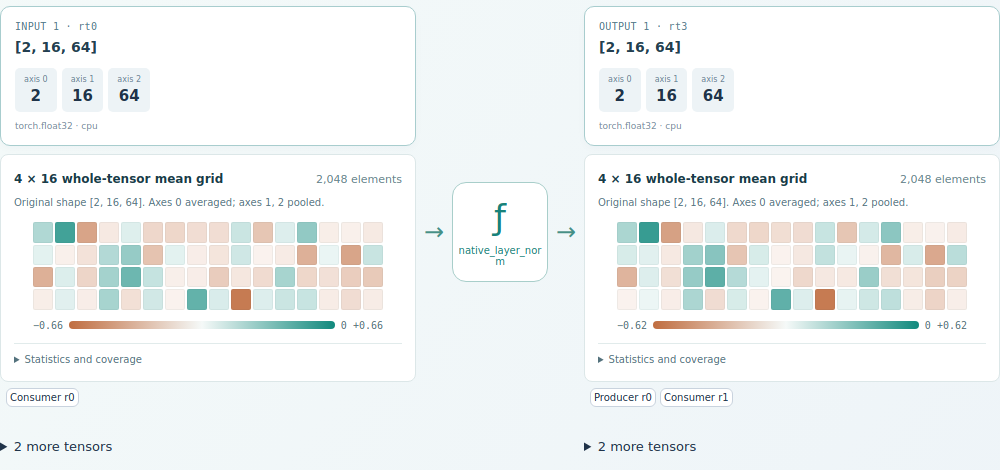
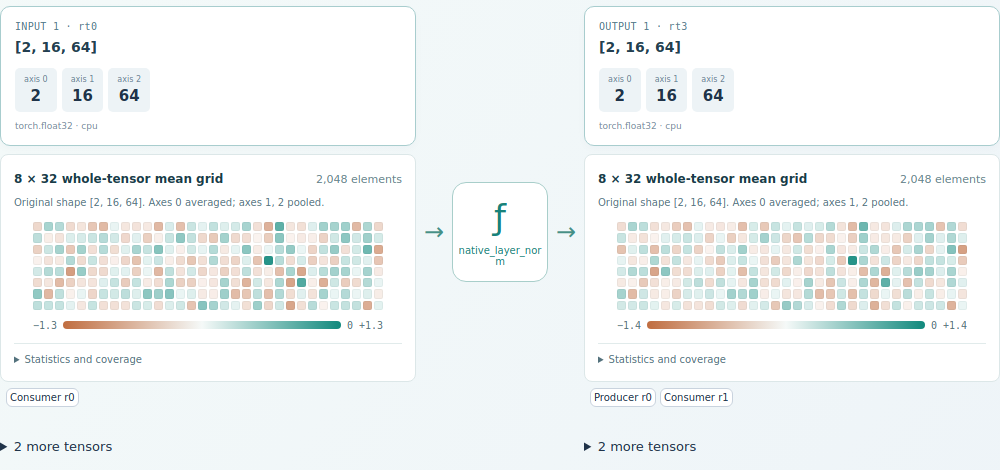
Render every cell for tensors up to 32 by 32

diff --git a/src/p2i/analyze/inspection.py b/src/p2i/analyze/inspection.py
@@ -4,7 +4,7 @@ import torch
 
 class RuntimeInspection:
     def __init__(self,*,max_tensors=64,max_elements=4096,sample_size=0,max_operations=256,
-                 max_summary_elements=262144,grid_size=16):
+                 max_summary_elements=262144,grid_size=32):
         if not (0<=max_tensors<=256 and 0<=max_elements<=16384 and 0<=sample_size<=64 and
                 0<=max_operations<=1024 and 0<=max_summary_elements<=1048576 and 1<=grid_size<=32):
             raise ValueError('Inspection limits exceed hard safety caps')
@@ -47,8 +47,8 @@ class RuntimeInspection:
                 else:
                     filled=filled.reshape(plane.shape[-2:])
                     coverage=valid.float().reshape(plane.shape[-2:])
-                # Downsample both axes by the same factor. A 32x16 plane
-                # becomes 16x8 rather than an apparently square 16x16 grid.
+                # Preserve every position while the final two axes fit in the
+                # grid. Only larger planes need bounded regional means.
                 scale=max(1,filled.shape[0]/self.grid_size,filled.shape[1]/self.grid_size)
                 height=max(1,min(self.grid_size,round(filled.shape[0]/scale)))
                 width=max(1,min(self.grid_size,round(filled.shape[1]/scale)))
@@ -67,7 +67,7 @@ class RuntimeInspection:
                     'reduced_axes':list(range(max(0,value.ndim-2))),
                     'finite_elements':int(finite.sum().item()),
                 }
-                entry['message']='Whole-tensor mean grid; raw tensor values were not retained.'
+                entry['message']='Bounded whole-tensor grid; original activation tensor was not retained.'
         except Exception as exc:entry['message']=f'Grid unavailable: {type(exc).__name__}'
     def operation(self,oid,func,args,kwargs):
         if len(self.operations)>=self.max_operations:return

diff --git a/tests/unit/test_tensor_grid.py b/tests/unit/test_tensor_grid.py
@@ -34,14 +34,16 @@ def test_leading_axes_are_explicitly_averaged_and_odd_sized_tiles_cover_every_el
 
 
 def test_rectangular_source_preserves_axis_ratio_in_bounded_grid():
-    square = inspect(torch.ones(32, 32))['grid']
+    square = inspect(torch.arange(32 * 32, dtype=torch.float32).reshape(32, 32))['grid']
     tall = inspect(torch.arange(32, dtype=torch.float32)[:, None].expand(32, 16))['grid']
     wide = inspect(torch.ones(16, 32))['grid']
-    assert square['shape'] == [16, 16]
-    assert tall['shape'] == [16, 8]
-    assert wide['shape'] == [8, 16]
-    assert tall['values'][0] == [0.5] * 8
-    assert tall['values'][-1] == [30.5] * 8
+    assert square['shape'] == [32, 32]
+    assert square['values'][0][0] == 0.0
+    assert square['values'][-1][-1] == 1023.0
+    assert tall['shape'] == [32, 16]
+    assert wide['shape'] == [16, 32]
+    assert tall['values'][0] == [0.0] * 16
+    assert tall['values'][-1] == [31.0] * 16
     assert tall['finite_elements'] == 32 * 16
 
 

diff --git a/docs/COMPUTATION_EXPLORER.md b/docs/COMPUTATION_EXPLORER.md
@@ -29,9 +29,9 @@ Parameter counts/configuration are labelled metadata, not fabricated graph nodes
 
 Default neighborhoods contain one operation and up to six directly connected operations. All operations remain in the selector. Raw view starts at 120 nodes and can intentionally expand to 500. Topological layers do not depend on source listing order; separate edge ports reveal fan-out/fan-in. This is a simple DAG layout, not crossing-minimal layout. Drag offsets persist for the current observation in this browser session. Retracing produces a new observation and resets offsets. Fit keeps scale at least 80%; oversized scopes require panning, not illegible shrinking.
 
-Scalars use one cell, vectors a strip and matrices a bounded rectangular heatmap. For rank three and above, leading axes are explicitly averaged; the final two axes are spatially pooled. Both displayed axes share one downsampling factor: a 32×32 plane makes a 16×16 grid, whereas 32×16 makes a 16×8 grid. The card retains its available width; cells adjust their width, and short/wide grids may occupy less height. Each cell is the arithmetic mean of all finite elements in its contributing region. Colour ranges are based on the largest absolute grid mean, with a centred zero legend; cells with no finite data are marked unavailable. No semantic axis names are inferred.
+Scalars use one cell, vectors a strip and matrices a bounded rectangular heatmap. For rank three and above, leading axes are explicitly averaged; the final two axes are spatially pooled. The default grid preserves every position when both final axes fit within 32: a 32×32 plane renders 32×32 cells, and 32×16 renders 32×16 cells in the same outer footprint, so each cell is smaller than in a 16×16 plane. Only axes exceeding 32 use a common downsampling factor and regional means. The card retains its available width; cells adjust their width, and short/wide grids may occupy less height. Each cell represents the mean of its contributing finite elements. Colour ranges are based on the largest absolute grid mean, with a centred zero legend; cells with no finite data are marked unavailable. No semantic axis names are inferred.
 
-The optional CPU sidecar stores at most a 16×16 mean grid per tensor and whole-tensor finite-value statistics; it stores no raw activation values by default. Normal capture is limited to the first 64 observed tensors and 262,144 elements per tensor. Unsupported devices/layouts, empty tensors and tensors above the size threshold show shape and a clear omission message. Earlier sidecars containing explicit prefixes still render as labelled legacy strips. The observed Model IR and its JSON schema remain unchanged. This is a compact whole-tensor summary, not a full activation store or a guarantee that every tensor in a model has a heatmap.
+The optional CPU sidecar stores at most a 32×32 grid per tensor and whole-tensor finite-value statistics; it stores no full activation tensor in the Model IR. Normal capture is limited to the first 64 observed tensors and 262,144 elements per tensor. Unsupported devices/layouts, empty tensors and tensors above the size threshold show shape and a clear omission message. Earlier sidecars containing explicit prefixes still render as labelled legacy strips. The observed Model IR and its JSON schema remain unchanged. A 32×32 input retains all 1,024 individual finite cell values in the opt-in inspection sidecar; above the 32-axis limit only regional means are retained. This is not a guarantee that every tensor in a model has a heatmap.
 
 ## Comparing observations
 

diff --git a/docs/PHASE2.md b/docs/PHASE2.md
@@ -195,7 +195,7 @@ The original hierarchy and raw computation modes remain available. New default *
 
 **Edit** displays supported constructor fields with type-appropriate controls, current/proposed values, a structured diff and validation result. Advanced JSON supports all actions and coordinated batches. Commit is enabled only after a successful preview; changing the proposal invalidates the preview. The live architecture and observed revisions are visibly distinct until Build & Re-trace succeeds. History exposes structured diffs, undo/redo, runtime comparisons and weight-transfer reports. All views share the selected module scope.
 
-Optional bounded CPU samples can be enabled for Build & Re-trace. They are stored in a separate in-memory sidecar, not saved ModelIR. Defaults: at most 64 tensors, 4,096 elements per tensor for sampling/statistics, 16 displayed values per tensor, and 256 operations' compact scalar arguments. Hard caps prevent increasing these without limit. Large/device/layout-incompatible tensors are omitted with a reason. Inspection arithmetic is excluded from the model operation trace. Without opt-in, the original metadata-only behavior remains.
+Optional bounded CPU heatmaps can be enabled for Build & Re-trace. They are stored in a separate in-memory sidecar, not saved ModelIR. Defaults: at most 64 tensors, 262,144 elements per tensor, a 32×32 grid per tensor, and 256 operations' compact scalar arguments. Within the grid bounds each 2D element has its own cell; larger axes are pooled into regional means. The original activation tensor is not retained, though small grid cells contain individual numerical values. Hard caps prevent increasing these without limit. Large/device/layout-incompatible tensors are omitted with a reason. Inspection arithmetic is excluded from the model operation trace. Without opt-in, the original metadata-only behavior remains.
 
 Python can use `RuntimeInspection` from `p2i.analyze.inspection` with `p2i.trace(..., inspection=capture)` and inspect `capture.as_dict()`.
 

diff --git a/docs/VISUAL_EXPLORATION.md b/docs/VISUAL_EXPLORATION.md
@@ -35,18 +35,17 @@ operators stay fused. No semantic attention or residual computation is invented.
 
 ## Tensor values
 
-Enable **Capture bounded CPU tensor samples on re-trace** in Edit and run **Build &
-Re-trace**. The backend's existing opt-in bounds remain unchanged. The first captured
-input/output in an operation can show a heatmap; other tensors retain compact shape
-buttons and their samples can be inspected in the tensor panel.
-
-A complete rank-2 tensor is labeled Complete matrix only if every element is present
-and it has at most 16 columns. Otherwise cells are explicitly labeled flat-order values
-or a flat prefix sample. A prefix is never represented as a complete attention map.
-Hover/focus gives the recorded numerical value. Statistics are the backend's tensor
-statistics; colors use the displayed sample's symmetric scale. At most 64 cells render.
-Unavailable values have an explicit omitted/not-captured explanation. Static graphs
-without runtime samples display metadata without invented values.
+Enable **Capture bounded whole-tensor CPU heatmaps on re-trace** in Edit and run
+**Build & Re-trace**. Captured operation inputs and outputs can show a heatmap;
+others retain shape metadata. An eligible rank-2 plane up to 32×32 has one colored
+cell per element, so a 32×32 plane has smaller cells than a 16×16 plane in the
+same footprint. Above the grid limit each cell is a regional mean, with leading
+axes averaged for higher ranks. A saved prefix from an older sidecar is explicitly
+labeled as such and never represented as a complete matrix. Hover/focus can reveal
+a cell's numerical value without showing numbers throughout the grid. Statistics
+refer to the full eligible tensor; colors use the displayed grid's symmetric scale.
+Unavailable tensors have an explicit omission message. Static graphs without runtime
+capture display metadata without invented values.
 
 ## Runtime
 

diff --git a/README.md b/README.md
@@ -10,7 +10,7 @@ The Phase 1 analyzer inspects the actual supplied model. Phase 2 adds determinis
 
 Run `p2i demo transformer --edit` and open the printed local URL. Start with **Explore**, drill into a module, then open **Runtime**. Playback follows observed ATen operations, highlighting inputs, the active operation and outputs. Pause to inspect or drag nodes. Export/FX graphs remain static evidence.
 
-**Computation** focuses on one operation and at most six neighbors at readable scale. **Edit → Build & Re-trace → Compare** presents the previous and current successful observations, constructor changes, aligned output shapes/heatmaps and added/removed dependency paths. Proposed edits do not replace observed results. Enable opt-in CPU heatmaps to display a bounded whole-tensor mean grid; raw values are not retained. Heatmaps are unavailable above the configured size limit.
+**Computation** focuses on one operation and at most six neighbors at readable scale. **Edit → Build & Re-trace → Compare** presents the previous and current successful observations, constructor changes, aligned output shapes/heatmaps and added/removed dependency paths. Proposed edits do not replace observed results. Enable opt-in CPU heatmaps to display a bounded whole-tensor grid: dimensions up to 32×32 retain one colored cell per element, while larger axes are pooled. The inspection sidecar stores bounded numerical cells, not the original activation tensor. Heatmaps are unavailable above the configured size limit.
 
 ![Observed TinyTransformer layer-normalization input and output represented as aligned rectangular mean heatmaps](docs/tensor-heatmap-flow.png)
 

diff --git a/docs/SHOWCASE.md b/docs/SHOWCASE.md
@@ -5,7 +5,7 @@ Run `p2i demo transformer --edit`. The bundled offline model is ordinary PyTorch
 1. **Explore** the root, `blocks`, then `blocks.0`. Show the real hierarchy, origin badges and tensor routes.
 2. Open **Runtime**. Play a few steps, pause, advance once and restart. Show the recorded operation/call IDs and amber input/output emphasis. This animation does not encode measured time.
 3. Open **Computation**. Choose a reshape or addition actually present in the selector; inspect its dimensions and connected neighbors. Drag a node and return to it. Do not expand a fused SDPA node into unobserved internals.
-4. In **Edit**, enable bounded whole-tensor CPU heatmaps and **Build & Re-trace**. Return to an early operation. Compare the input and output rectangular grids, their axis aggregation labels and signed colour scale. No raw activations are stored in the normal capture path.
+4. In **Edit**, enable bounded whole-tensor CPU heatmaps and **Build & Re-trace**. Return to an early operation. Compare the input and output rectangular grids, their axis aggregation labels and signed colour scale. The normal capture stores a bounded numerical grid, which equals individual input values for a fitting 2D plane; it does not retain the original activation tensor.
 5. At root, select `norm`. In **Edit**, change `eps` to `0.001`, **Preview & validate**, **Commit edit**, then **Build & Re-trace**.
 6. Open **Compare**. Show observed r0/r1, actual constructor changes, shape/grid changes and the aligned operation microscopes. A safe epsilon edit need not change operation counts or shapes; unchanged evidence is informative.
 
